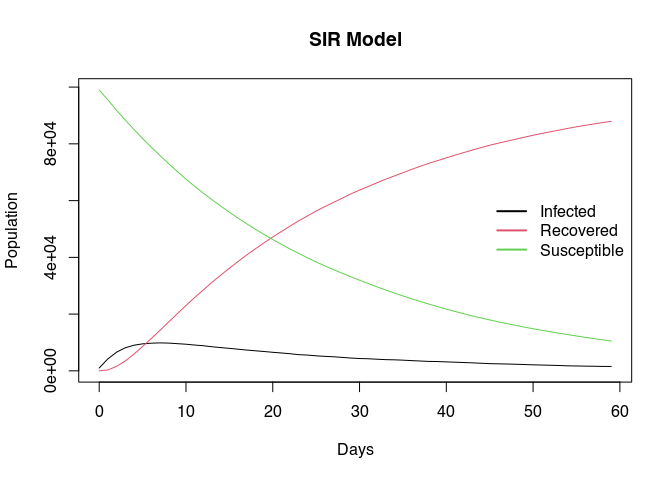
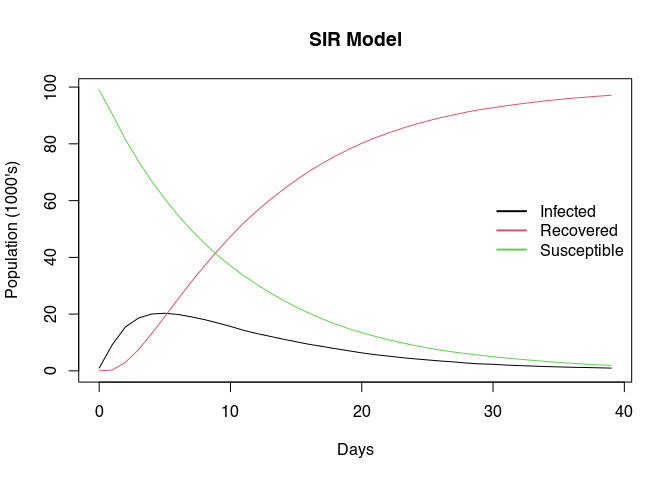
Updating readme

diff --git a/README.md b/README.md
@@ -31,17 +31,17 @@ library(epiworldR)
 
 # Creating a SIR model
 sir <- ModelSIR(
-  name = "COVID-19",
-  prevalence = .01,
+  name           = "COVID-19",
+  prevalence     = .01,
   infectiousness = .9,
-  recovery = .3
+  recovery       = .3
   )
 
 # Adding a Small world population 
 agents_smallworld(
   sir,
   n = 100000,
-  k = 5,
+  k = 10,
   d = FALSE,
   p = .01
   )
@@ -65,8 +65,8 @@ sir
 #> Number of entitites : 0
 #> Days (duration)     : 100 (of 100)
 #> Number of variants  : 1
-#> Last run elapsed t  : 458.00ms
-#> Last run speed      : 21.79 million agents x day / second
+#> Last run elapsed t  : 477.00ms
+#> Last run speed      : 20.96 million agents x day / second
 #> Rewiring            : off
 #> 
 #> Virus(es):
@@ -80,12 +80,12 @@ sir
 #>  - Prob. of Recovery : 0.3000
 #> 
 #> Distribution of the population at time 100:
-#>  - (0) Susceptible :  99000 -> 2130
-#>  - (1) Infected    :   1000 -> 330
-#>  - (2) Recovered   :      0 -> 97540
+#>  - (0) Susceptible :  99000 -> 0
+#>  - (1) Infected    :   1000 -> 0
+#>  - (2) Recovered   :      0 -> 100000
 #> 
 #> Transition Probabilities:
-#>  - Susceptible  0.96  0.04  0.00
+#>  - Susceptible  0.87  0.13  0.00
 #>  - Infected     0.00  0.70  0.30
 #>  - Recovered    0.00  0.00  1.00
 ```
